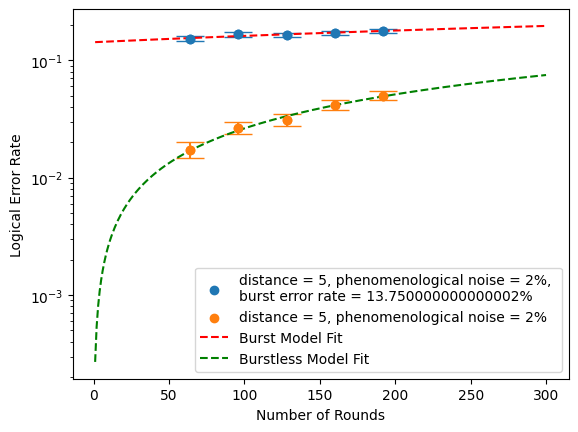
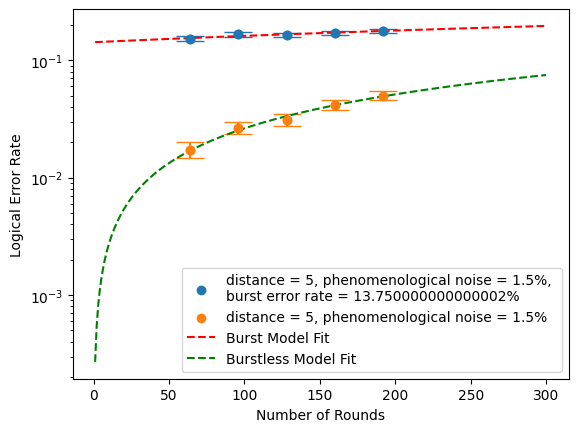
latest plots

Changed region(s): [[0.3114, 0.6319, 0.9654, 0.8727]]

diff --git a/main.py b/main.py
@@ -24,7 +24,7 @@ if __name__ == "__main__":
     data_dictionary = dict()
     rounds = [64, 96, 128, 160, 192, 64, 96, 128, 160, 192]
     distances = [3, 5, 7]
-    noises = [0.005]
+    noises = [0.015]
     burst_error_timesteps = [-1, -1, -1, -1, -1, 32, 48, 64, 80, 96]
     burst_error_rates = np.linspace(0.1, 0.15, 5)
     # for burst_error_rate in burst_error_rates:
@@ -54,12 +54,12 @@ if __name__ == "__main__":
             sub_df = data_dictionary[(np.isclose(data_dictionary['Burst_Error_Rate'], burst_error_rate)) & (data_dictionary['Distance'] == distance)]
             logical_error_rates = sub_df['Logical_Error_Rate'].to_numpy()
             CI_logical_error_rates = simulation.compute_clopper_pearson_error_bars(logical_error_rates, 0.95, 10000)
-            norm_dist_error_for_logical_error_rates = simulation.compute_sigma_values(logical_error_rates, 10000)
+            norm_dist_error_for_logical_error_rates = simulation.compute_sigma_values_with_wald_interval(logical_error_rates, 10000)
             plt.ylabel('Logical Error Rate')
             plt.semilogy()
             plt.xlabel('Number of Rounds')
-            plt.scatter(rounds[int(len(rounds)/2):], logical_error_rates[int(len(rounds)/2):], label='distance = ' + str(distance) + ', phenomenological noise = 2%, \nburst error rate = ' + str(burst_error_rate * 100) +'%')
-            plt.scatter(rounds[:int(len(rounds)/2)], logical_error_rates[:int(len(rounds)/2)], label='distance = ' + str(distance) + ', phenomenological noise = 2%')
+            plt.scatter(rounds[int(len(rounds)/2):], logical_error_rates[int(len(rounds)/2):], label='distance = ' + str(distance) + ', phenomenological noise = 1.5%, \nburst error rate = ' + str(burst_error_rate * 100) +'%')
+            plt.scatter(rounds[:int(len(rounds)/2)], logical_error_rates[:int(len(rounds)/2)], label='distance = ' + str(distance) + ', phenomenological noise = 1.5%')
             plt.errorbar(rounds[int(len(rounds)/2):], logical_error_rates[int(len(rounds)/2):], yerr=[x[int(len(rounds)/2):] for x in CI_logical_error_rates], fmt='o', capsize=10)
             plt.errorbar(rounds[:int(len(rounds)/2)], logical_error_rates[:int(len(rounds)/2)], yerr=[x[:int(len(rounds)/2)] for x in CI_logical_error_rates], fmt='o', capsize=10)
             
@@ -81,14 +81,14 @@ if __name__ == "__main__":
     
     for key in list(logical_burst_error_rate_dict.keys()):
         print(key, logical_burst_error_rate_dict[key])
-        plt.plot(burst_error_rates, logical_burst_error_rate_dict[key][0], label='distance = ' + str(key)+ ', phenomenological noise = 2%')
+        plt.plot(burst_error_rates, logical_burst_error_rate_dict[key][0], label='distance = ' + str(key)+ ', phenomenological noise = ' + str(noises[0] * 100) + '%')
         plt.errorbar(burst_error_rates, logical_burst_error_rate_dict[key][0], yerr=logical_burst_error_rate_dict[key][1], fmt='o', capsize=10)
 
     plt.legend()
     plt.ylabel('Logical Burst Error Rate')
     # plt.semilogy()
     plt.xlabel('Burst Error Rate')
-    plt.savefig('2%_phenomenological_noise_burst_error_threshold_new.png', bbox_inches="tight")
+    plt.savefig(str(noises[0] * 100) + '%_phenomenological_noise_burst_error_threshold_new.png', bbox_inches="tight")
     plt.clf()
 
     # iterate through the plot colors
@@ -96,7 +96,7 @@ if __name__ == "__main__":
     # 100000 samples
     '''
     For threshold plots, we want double the number of data points. Can try fitting a linear plot.
-    Relabel error fitting as wilson interval
+    Relabel error fitting as wald interval
     Check out section 3.3 in reading as well as numerics section
     Read overlapping recovery method section in topological quantum memory
 

diff --git a/simulate.py b/simulate.py
@@ -195,5 +195,5 @@ class Simulation:
             CI_lower_bound_logical_error_rates[i] = abs(logical_error_rates[i] - CI_lower_bound_logical_error_rates[i])
         return [CI_lower_bound_logical_error_rates, CI_upper_bound_logical_error_rates]
 
-    def compute_sigma_values(self, logical_error_rates: np.ndarray, num_shots: int) -> List:
+    def compute_sigma_values_with_wald_interval(self, logical_error_rates: np.ndarray, num_shots: int) -> List:
         return [np.sqrt(x*(1-x)/num_shots) for x in logical_error_rates]
